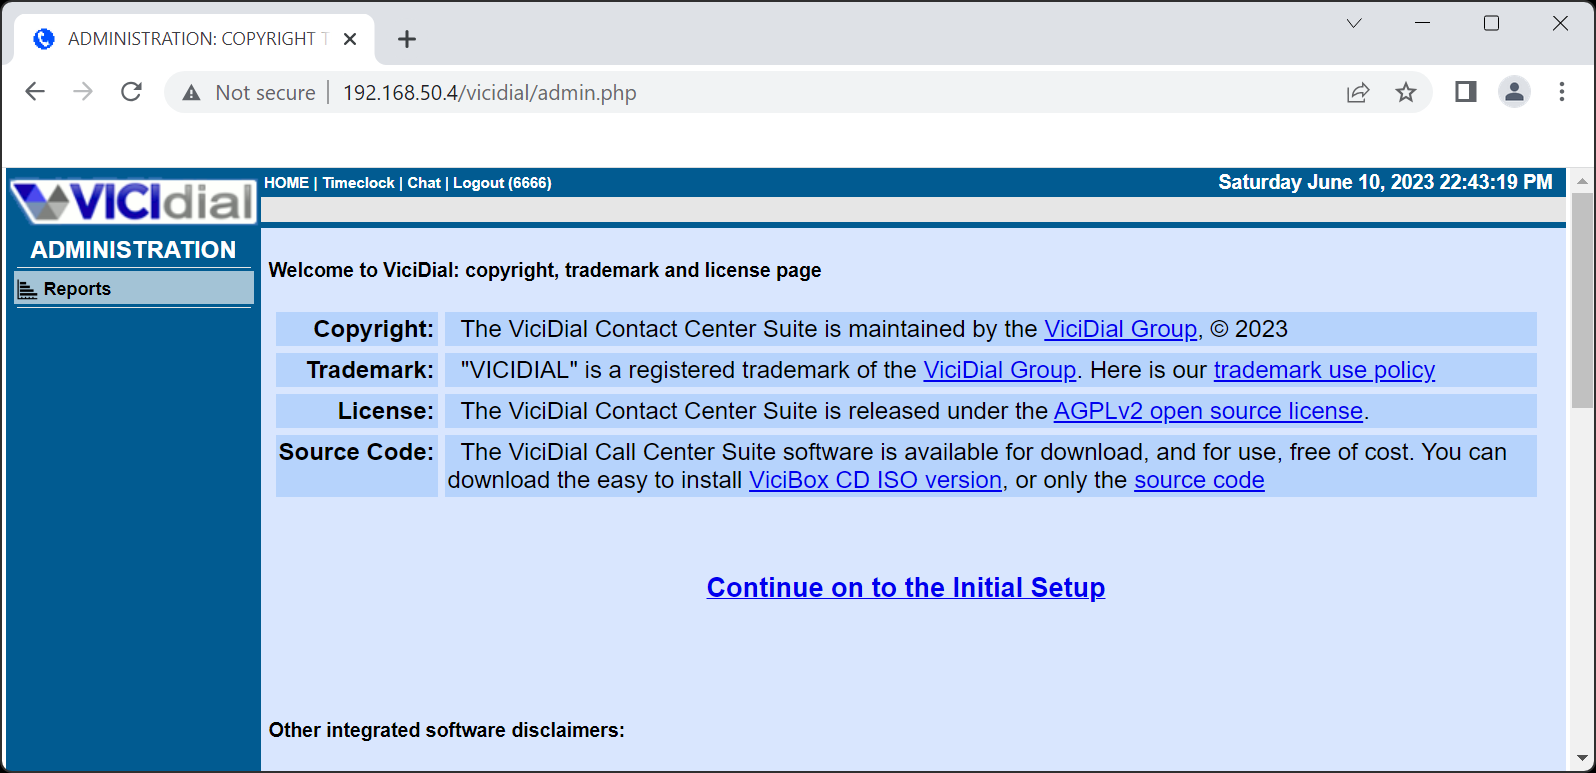
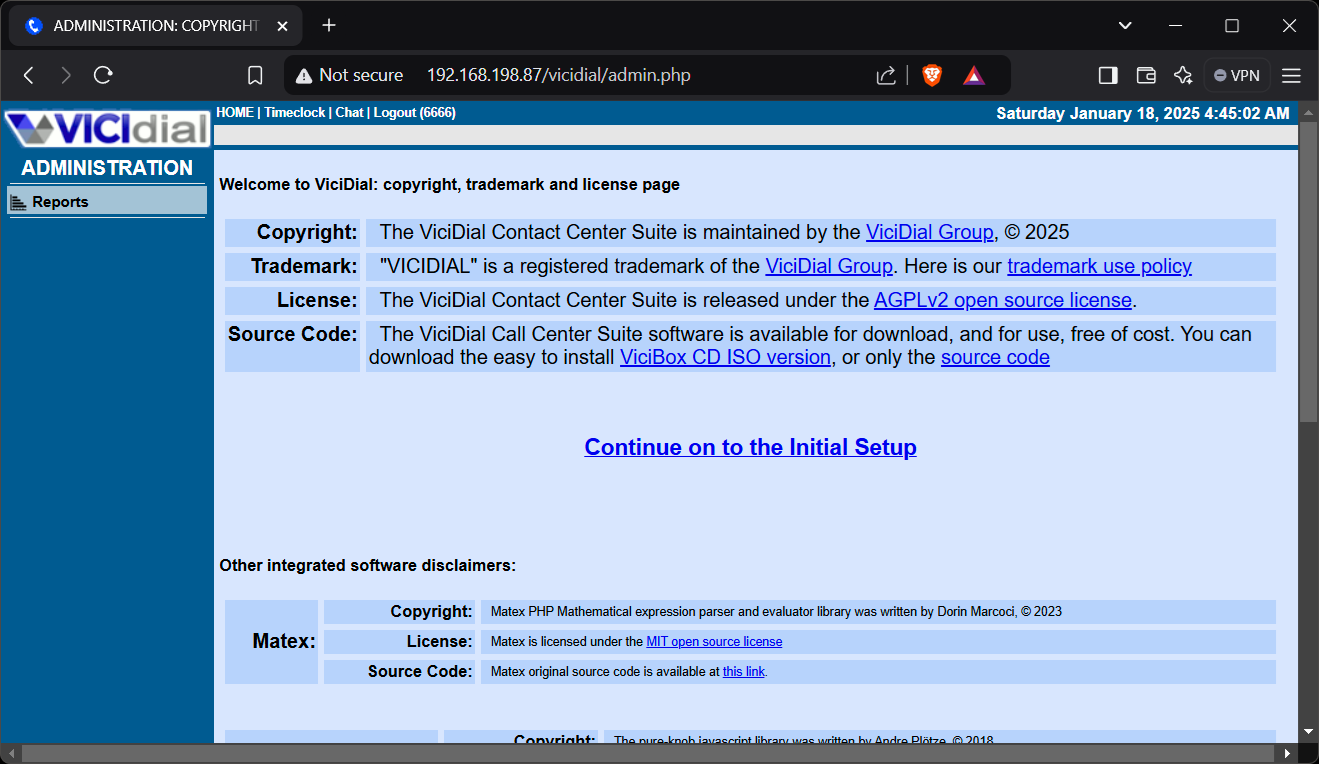
Update web browser pics for express-install

diff --git a/docs/source/installation/phase2/express.rst b/docs/source/installation/phase2/express.rst
@@ -32,7 +32,7 @@ Run vicibox-express and reboot
 
 Verify that ViciDial started (may take up to 5 minutes)
    .. image:: express-2.png
-      :alt: Verify screen and asterisk sessions running
+      :alt: Verify screen sessions and asterisk running
       :width: 665
 
 Verify that the web interface is working
